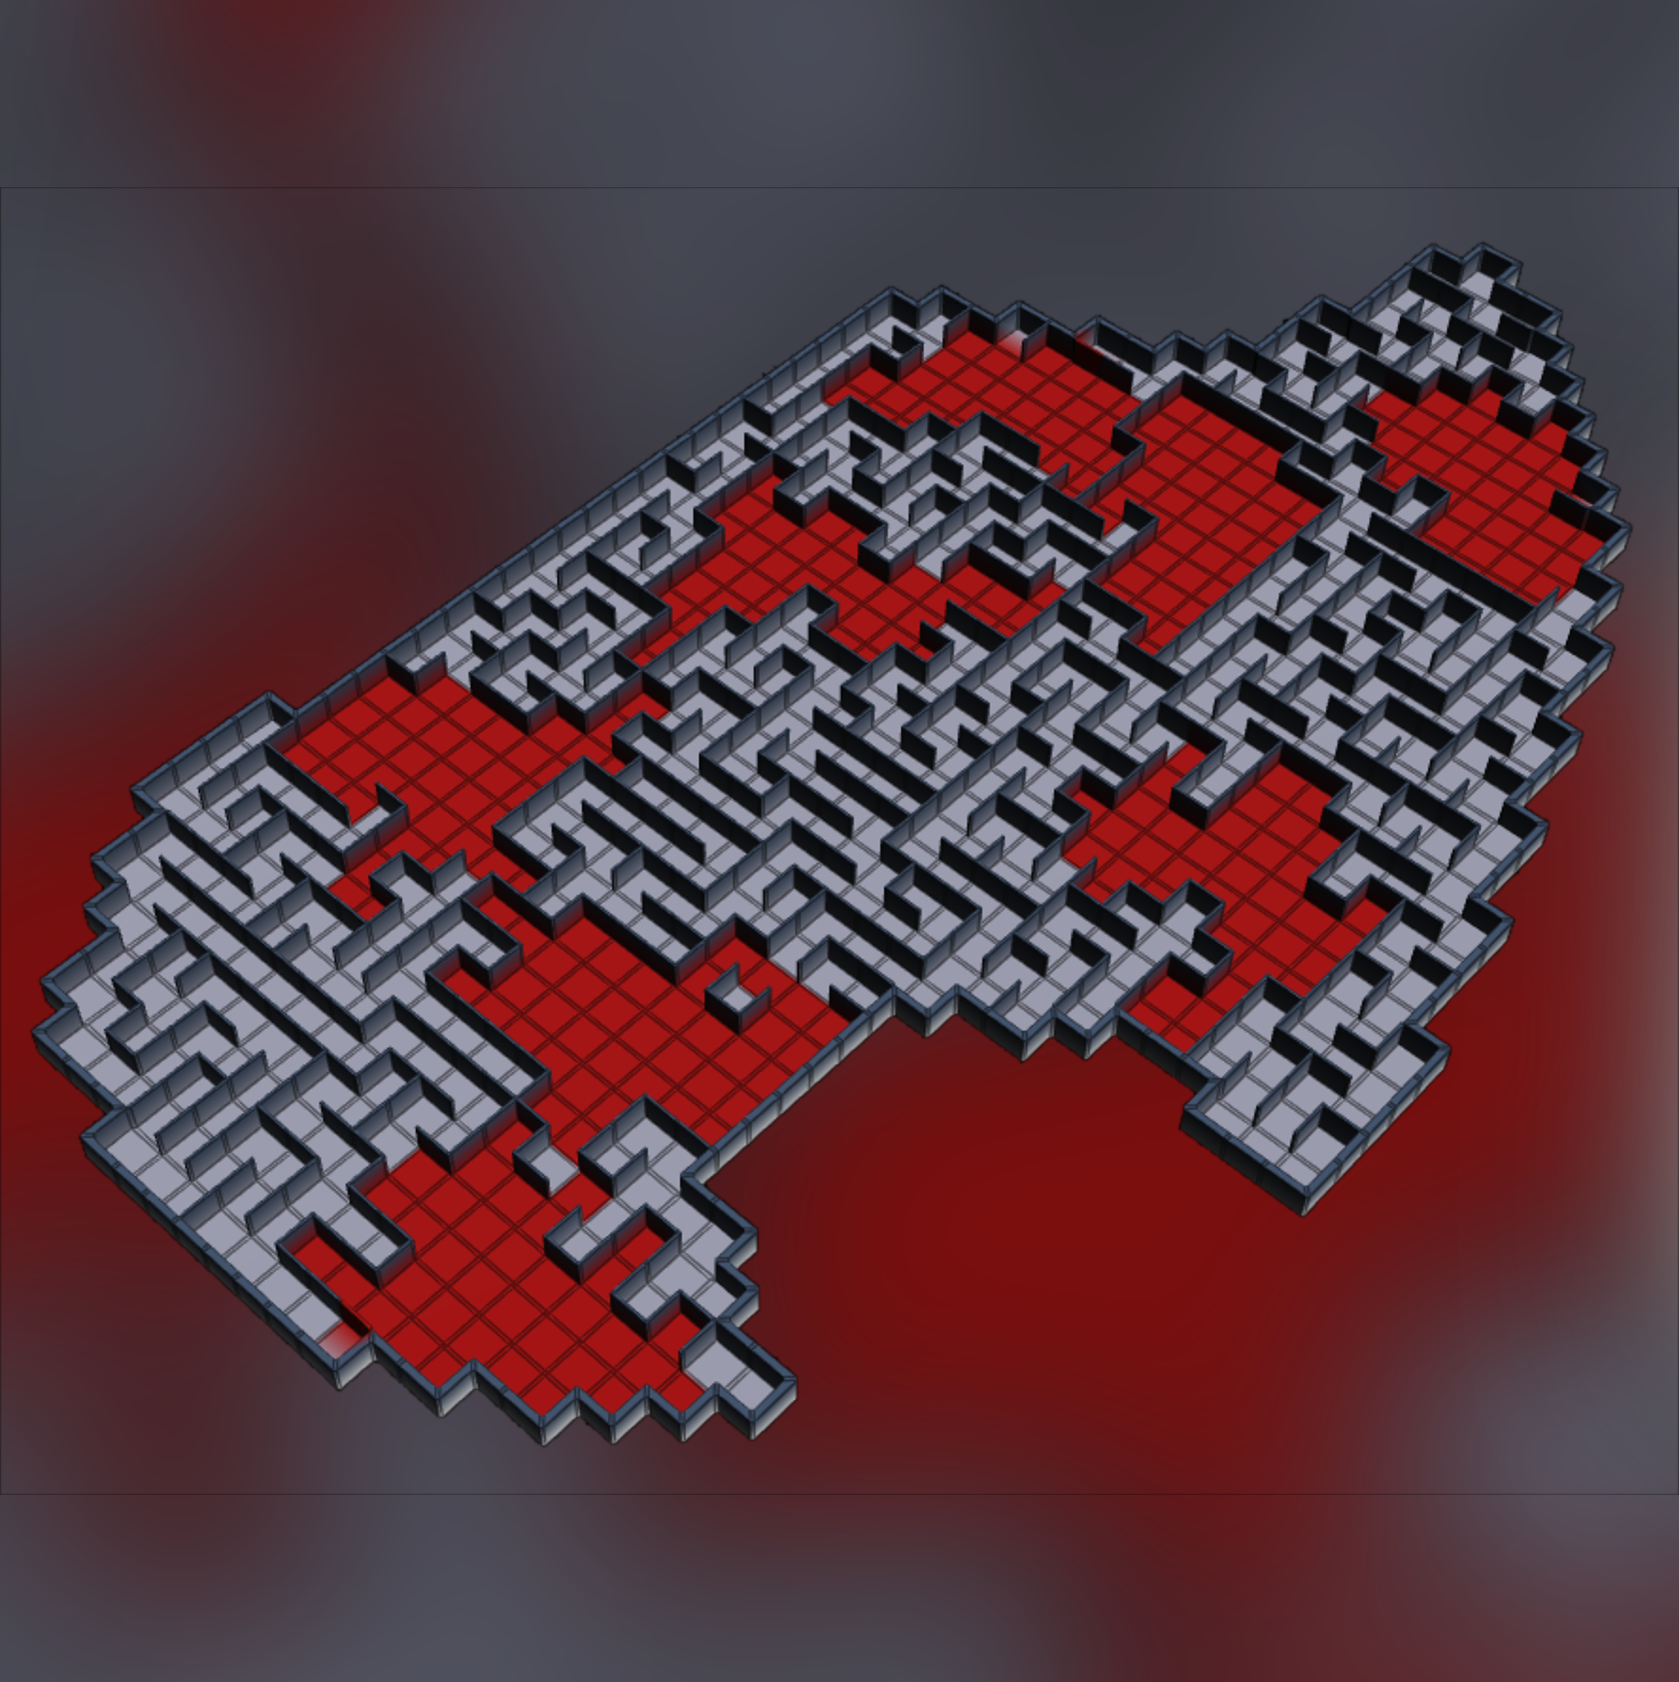
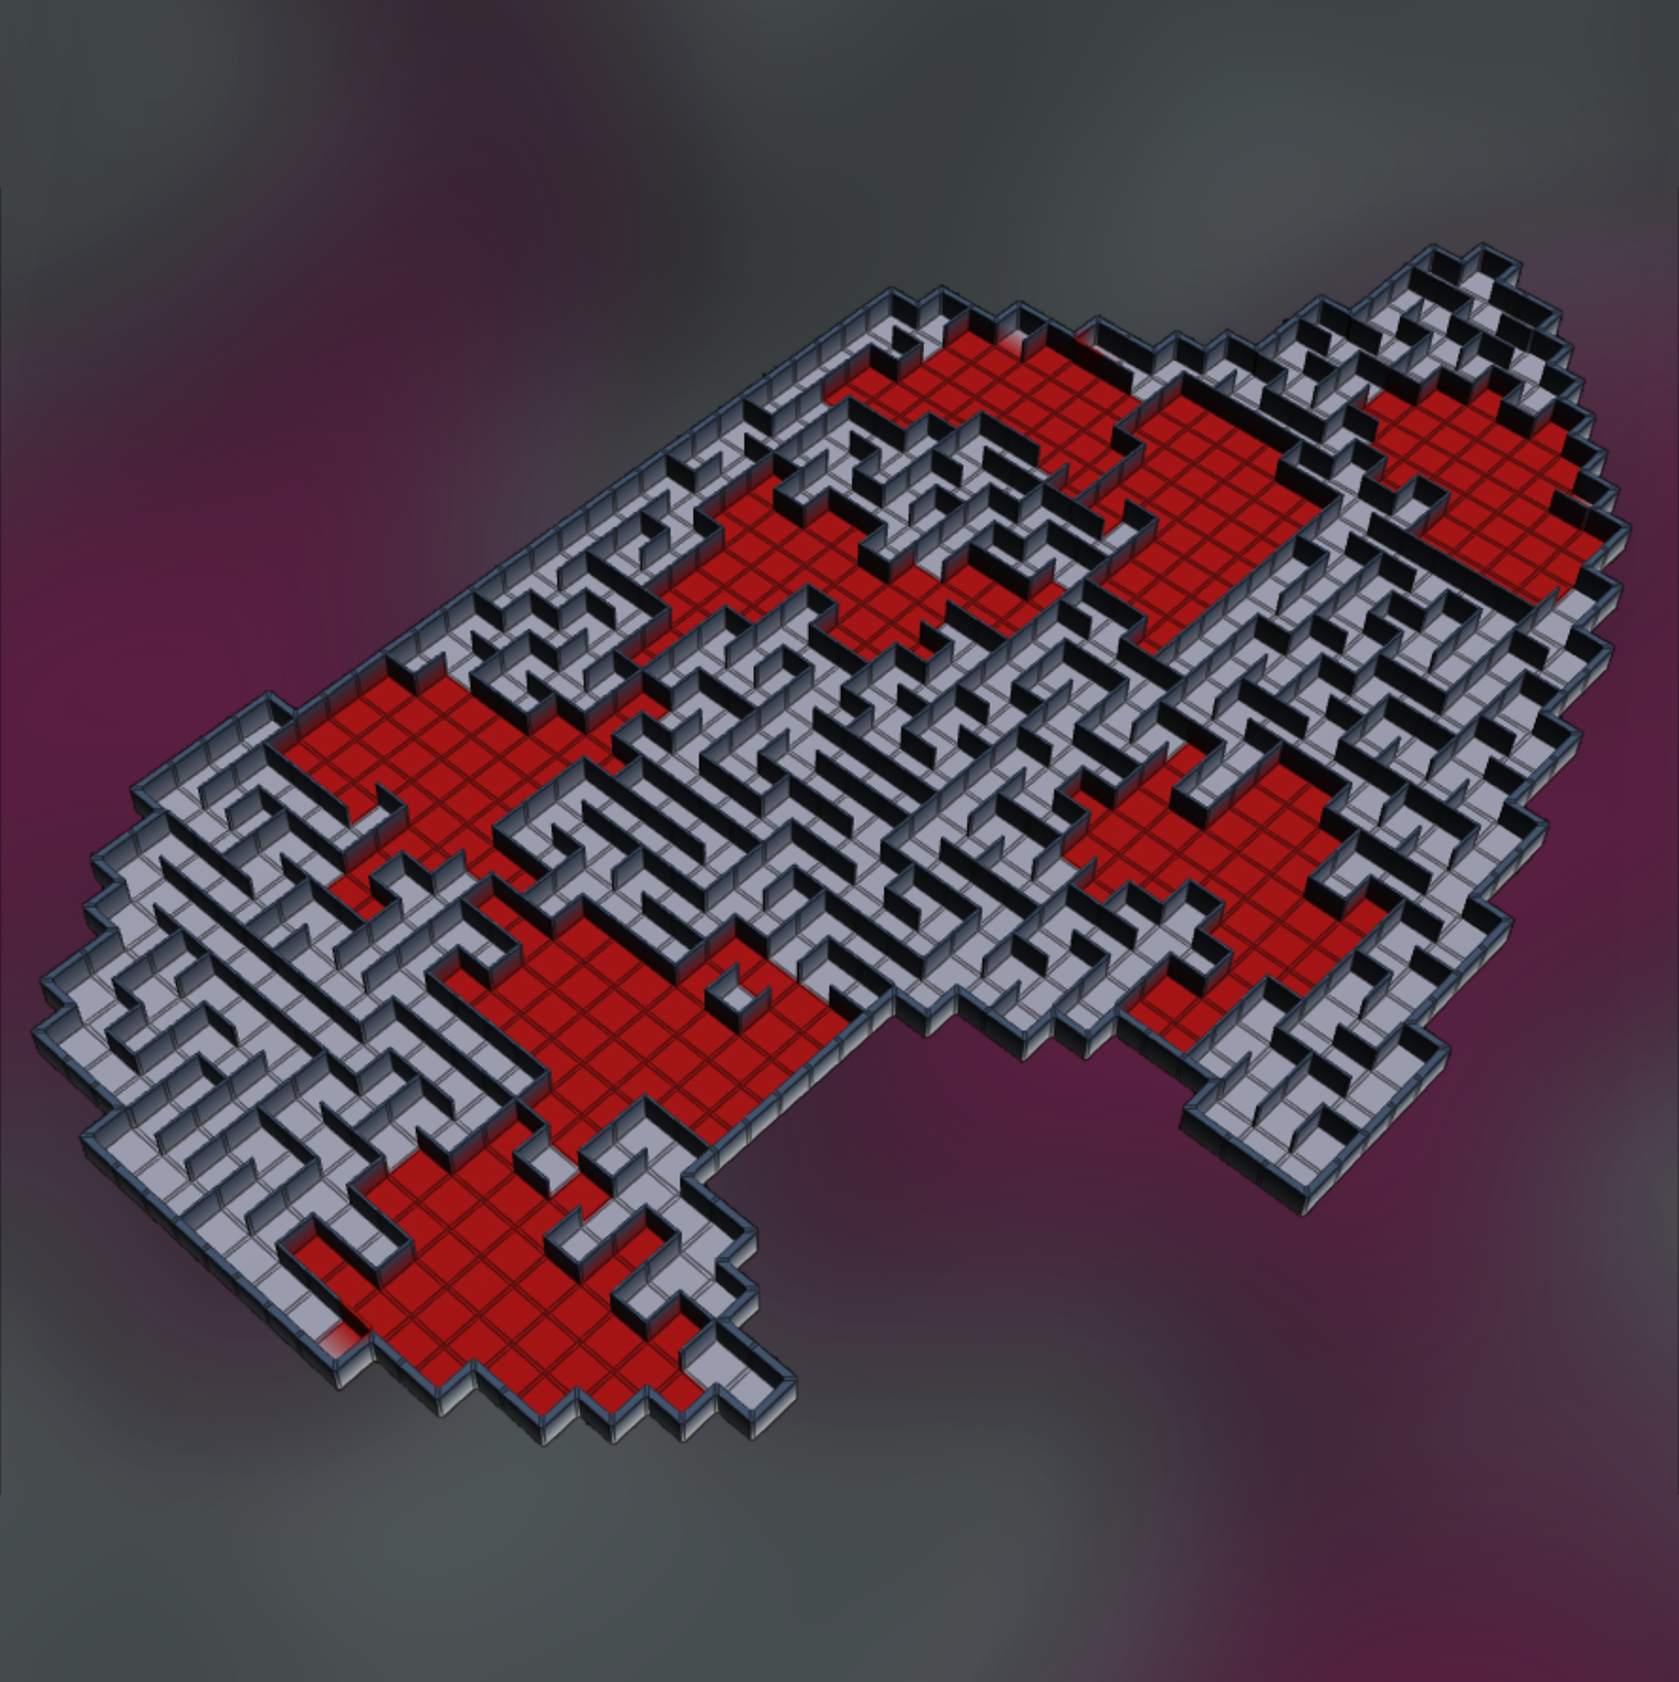
feat(Project images): Update images to unify the look

diff --git a/src/components/Portfolio.vue b/src/components/Portfolio.vue
@@ -27,7 +27,6 @@ export default {
                     let name = content.getElementsByTagName("h1")[0].textContent
                     let file = content.getElementById("file").getAttribute("data-path").match(/(?<=\/)[a-zA-Z.\-_]*$/gm)
                     let image = content.getElementById("user-content-image").parentNode.nextSibling.nextSibling.textContent
-                    console.log(image)
                     let description = content.getElementById("user-content-description").parentNode.nextSibling.nextSibling.textContent
                     let categories = []
                     let categoriesDOM = content.getElementById("user-content-tools").parentNode.nextSibling.nextSibling.childNodes
@@ -89,7 +88,7 @@ export default {
     display: flex;
     flex-direction: row;
     flex-wrap: wrap;
-    justify-content: space-around;
+    justify-content: center;
 }
 
 .card {

diff --git a/src/components/ProjectCard.vue b/src/components/ProjectCard.vue
@@ -19,7 +19,6 @@ export default {
         <h4>{{ project.name }}</h4>
         <img v-bind:src="require('../assets/' + project.image)" v-bind:alt="project.description"/>
         <p class="description">{{ project.description }}</p>
-        <span/>
         <ul class="categories">
             <li v-for="category in project.categories" v-bind:key="category" class="category">{{ category }}</li>
         </ul>
@@ -32,7 +31,7 @@ export default {
     border-radius: 20px;
     display: flex;
     flex-direction: column;
-    justify-content: center;
+    justify-content: space-between;
     color: #C8C8C8;
     transition: 0.1s;
     padding: 20px;
@@ -51,7 +50,8 @@ img {
     margin-left: auto;
     margin-right: auto;
     max-width: 100%;
-    max-height: 60%;
+    height: 80%;
+    border-radius: 10px;
 }
 
 .description {

diff --git a/src/App.vue b/src/App.vue
@@ -19,6 +19,8 @@ export default {
 
 
 <style lang="scss">
+@import url('https://fonts.googleapis.com/css2?family=Roboto+Condensed:wght@300&display=swap');
+
 * {
     margin: 0px;
     padding: 0px;
@@ -36,6 +38,10 @@ html {
 #app {
     display: grid;
     grid-template-columns: 300px 4fr;
+}
+
+p {
+    font-family: 'Roboto Condensed', sans-serif;
 }
 
 </style>

diff --git a/src/components/NavBar.vue b/src/components/NavBar.vue
@@ -110,6 +110,7 @@ a.router-link-exact-active {
     align-items: center;
     font-weight: normal;
     font-size: 120%;
+    font-family: 'Roboto Condensed', sans-serif;
 }
 
 .line {

diff --git a/src/components/VideoPlayer.vue b/src/components/VideoPlayer.vue
@@ -101,6 +101,7 @@ export default {
     color: #C8C8C8;
     padding: 50px;
     padding-left: 200px;
+    line-height: 28px;
 }
 
 </style>

diff --git a/src/assets/projects/UnrealPrevisTool.md b/src/assets/projects/UnrealPrevisTool.md
@@ -6,7 +6,7 @@ An Unreal plugin to facilitate realtime keying, tracking, and compositing for pr
 
 ## Image
 
-default/warning.svg
+default/UnrealPrevisTool.png
 
 ## Project
 
